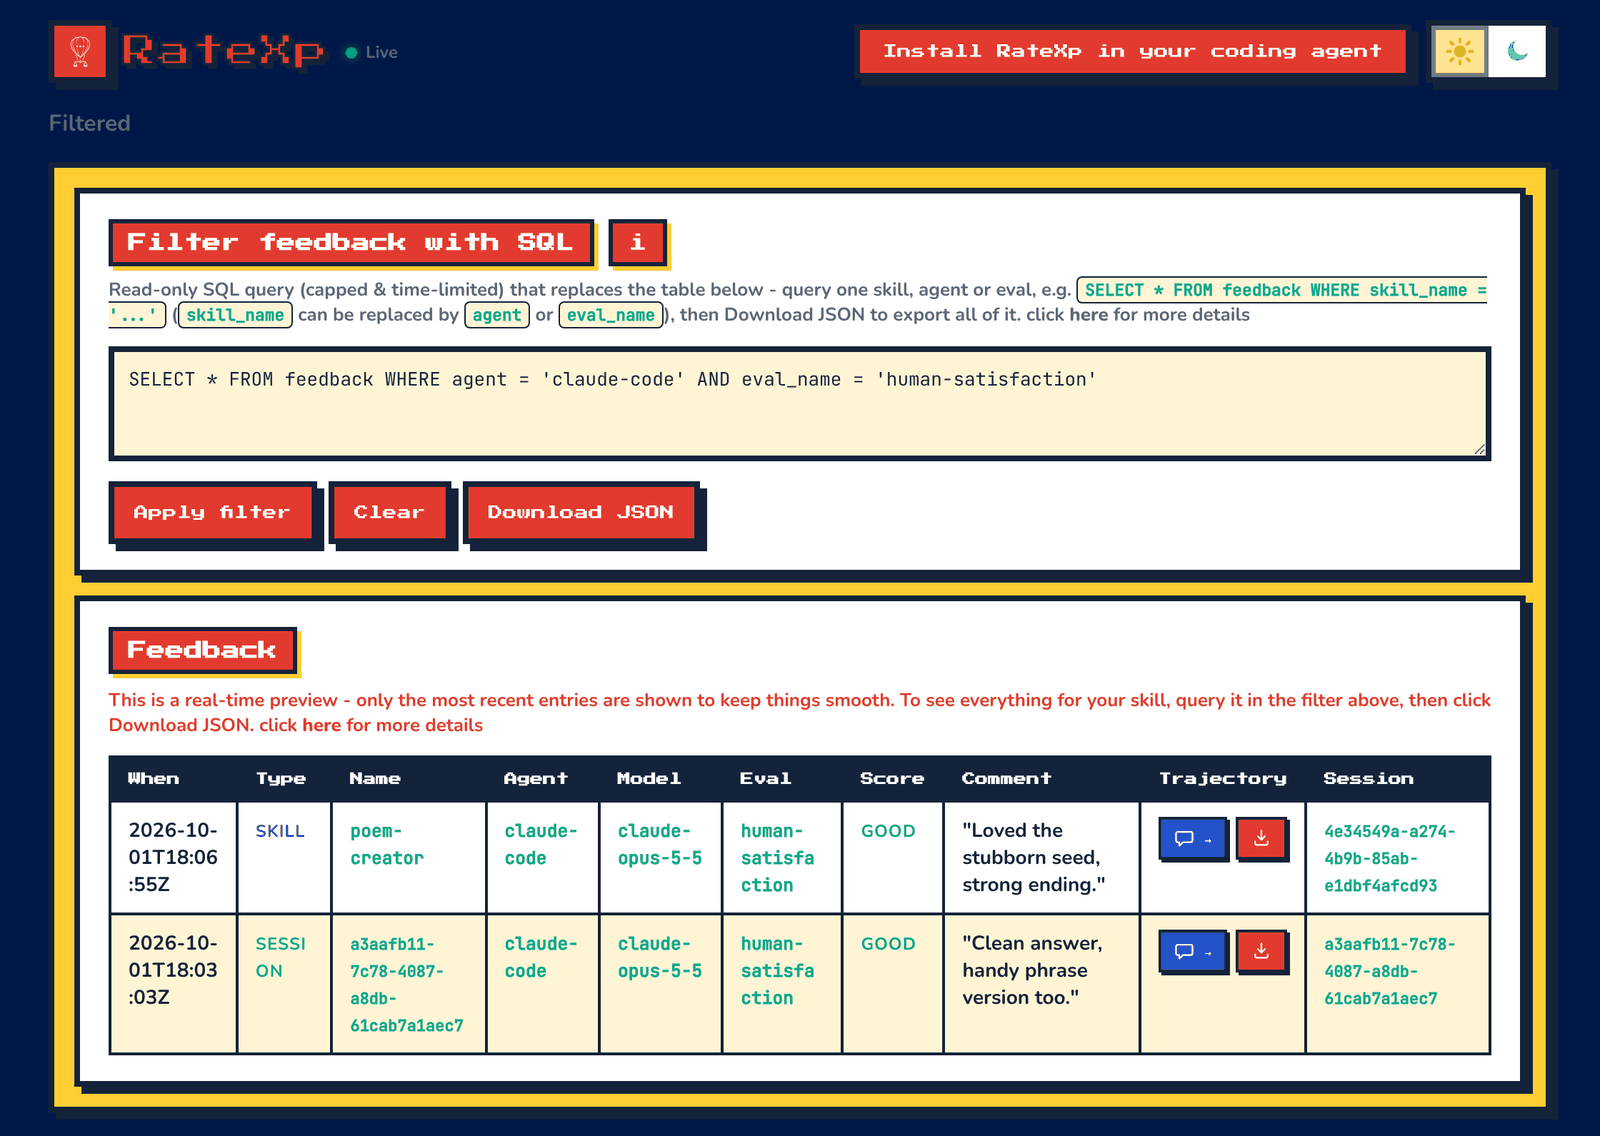
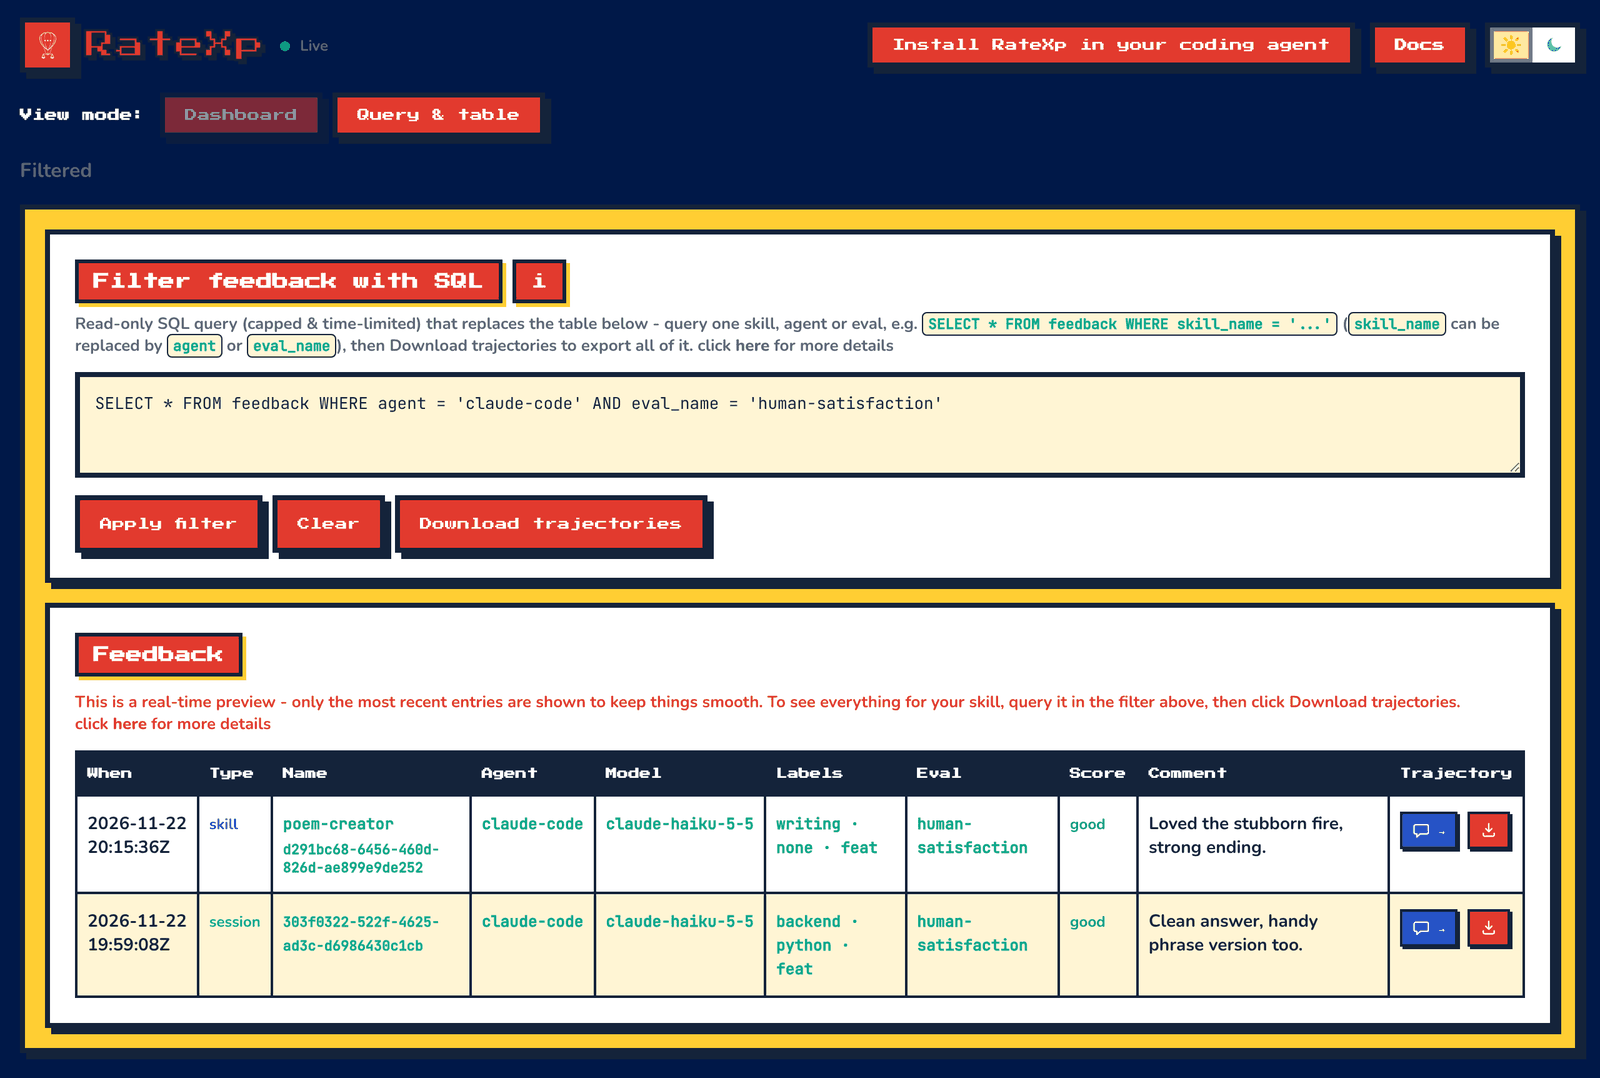
docs: show the quick-start install choices as All your projects / One repository tabs for Claude Code and the Cursor CLI (the tab hook now also takes a paragraph or list, and tabs inside a step keep its numbering), drop the plugin-folder and RATEXP_URL lines from the quick start, add The RateXp Dyna

diff --git a/docs-server/theme/ratexp.css b/docs-server/theme/ratexp.css
@@ -68,6 +68,29 @@
   background: var(--header-bg);
 }
 
+/* The repo link in the top bar is the GitHub icon alone, right before the night/day switch at
+   the end of the bar, on every screen width. Material hides the name and the stars and forks
+   counts here, and its 11.7rem box for them shrinks to the icon. */
+.md-header .md-header__source {
+  display: block;
+  order: 1;
+  width: auto;
+  max-width: none;
+}
+
+[dir="ltr"] .md-header .md-header__source {
+  margin-left: 0;
+}
+
+.md-header .md-source__repository,
+.md-header .md-source__facts {
+  display: none;
+}
+
+.md-header form[data-md-component="palette"] {
+  order: 2;
+}
+
 .md-header .md-logo img {
   filter: var(--header-logo-filter);
 }
@@ -357,6 +380,25 @@
 }
 
 .md-typeset .code-tabs > input:checked + label + pre {
+  display: block;
+}
+
+/* A tab whose body is text instead of code (the Cursor CLI's menu clicks): the same box and
+   labels, with the paragraph or list under the labels. */
+.md-typeset .code-tabs > p,
+.md-typeset .code-tabs > ol,
+.md-typeset .code-tabs > ul {
+  display: none;
+  flex: 0 0 100%;
+  margin: 0;
+  padding: 0.8em 1.2em;
+  text-align: left;
+  border-top: 1px solid var(--box-line);
+}
+
+.md-typeset .code-tabs > input:checked + label + p,
+.md-typeset .code-tabs > input:checked + label + ol,
+.md-typeset .code-tabs > input:checked + label + ul {
   display: block;
 }
 

diff --git a/docs-server/tab_code_blocks.py b/docs-server/tab_code_blocks.py
@@ -1,11 +1,11 @@
-"""MkDocs hook: show the code blocks after a `<!-- tabs -->` line as one box with tabs.
+"""MkDocs hook: show the blocks after a `<!-- tabs -->` line as one box with tabs.
 
 GitHub cannot show tabs, so a page writes each tab as a bold label line ("**Claude Code:**")
-and its own code block, and puts `<!-- tabs -->`, which GitHub hides, on the line above the
-first label. On the site the labelled blocks become one box: the first block's title bar,
-a row of tabs under it, and the code of the open tab. theme/ratexp.css draws the box; the
-tabs are radio buttons, so they work without JavaScript, and Material's copy button copies
-the open tab only.
+and its own block - a code block, or one paragraph or list - and puts `<!-- tabs -->`, which
+GitHub hides, on the line above the first label. On the site the labelled blocks become one
+box: the first block's title bar (code only), a row of tabs under it, and the block of the
+open tab. theme/ratexp.css draws the box; the tabs are radio buttons, so they work without
+JavaScript, and Material's copy button copies the open tab only.
 """
 
 from __future__ import annotations
@@ -18,27 +18,32 @@ from mkdocs.structure.files import Files
 from mkdocs.structure.pages import Page
 
 MARKER = "<!-- tabs -->"
-# One tab as rendered: the bold label line, then pymdownx.highlight's box - its title bar
-# (when the block has one) and the code.
+# One tab as rendered: the bold label line, then either pymdownx.highlight's box - its title
+# bar (when the block has one) and the code - or one paragraph or list, for a tab whose text
+# is a click in the Cursor CLI's menu rather than a command.
 TAB = re.compile(
     r"\s*<p><strong>(?P<label>[^<]+):</strong></p>\s*"
-    r'<div class="(?P<box_class>[^"]*\bhighlight\b[^"]*)">'
-    r'(?P<title><span class="filename">[^<]*</span>)?(?P<code><pre>.*?</pre>)</div>',
+    r'(?:<div class="(?P<box_class>[^"]*\bhighlight\b[^"]*)">'
+    r'(?P<title><span class="filename">[^<]*</span>)?(?P<code><pre>.*?</pre>)</div>'
+    r"|(?P<steps><(?:ol|ul)>.*?</(?:ol|ul)>|<p>.*?</p>))",
     re.S,
 )
 
 
 def make_tabbed_box(tabs: list[re.Match], group: int) -> str:
-    """One code box holding every tab; tab 1 is open. Each radio button sits right before its
-    label and its code, so the stylesheet can show the open one with `:checked +` alone."""
-    parts = [f'<div class="{tabs[0]["box_class"]} code-tabs">', tabs[0]["title"] or ""]
+    """One box holding every tab; tab 1 is open. Each radio button sits right before its
+    label and its block, so the stylesheet can show the open one with `:checked +` alone."""
+    first = tabs[0]
+    box_class = first["box_class"] if first["box_class"] else "highlight"
+    parts = [f'<div class="{box_class} code-tabs">', first["title"] or ""]
     for number, tab in enumerate(tabs, 1):
         tab_id = f"code-tabs-{group}-{number}"
         checked = " checked" if number == 1 else ""
+        body = tab["code"] if tab["code"] else tab["steps"]
         parts += [
             f'<input type="radio" name="code-tabs-{group}" id="{tab_id}"{checked}>',
             f'<label for="{tab_id}">{tab["label"]}</label>',
-            tab["code"],
+            body,
         ]
     return "".join([*parts, "</div>"])
 
@@ -54,7 +59,8 @@ def on_page_content(html: str, page: Page, config: MkDocsConfig, files: Files) -
         if len(tabs) < 2:
             raise PluginError(
                 f"{page.file.src_uri}: {MARKER} must stand right above two or more code "
-                "blocks, each after a bold label line such as **Claude Code:**"
+                "blocks, paragraphs or lists, each after a bold label line such as "
+                "**Claude Code:**"
             )
         out += [make_tabbed_box(tabs, group), text[end:]]
     return "".join(out)

diff --git a/README.md b/README.md
@@ -18,6 +18,7 @@
   <a href="#available-human-evals-the-question-of-each-eval">Available human evals</a> ·
   <a href="#how-ratexp-works-from-hook-to-destination">How RateXp works</a> ·
   <a href="#features-what-you-get">Features</a> ·
+  <a href="#the-ratexp-dynatrace-app-read-and-export-the-feedback">RateXp Dynatrace app</a> ·
   <a href="#the-ratexp-app-read-and-export-the-feedback">RateXp app</a> ·
   <a href="#contact-how-to-reach-me">Contact</a> ·
   <a href="#acknowledgements-and-citations-projects-ratexp-builds-on">Acknowledgements</a> ·
@@ -70,21 +71,21 @@ Install the RateXp plugin one time. Do the steps for your coding agent.
 
 **Claude Code:**
 
-1. **Install the plugin:** Type one of these commands in the terminal.
+1. **Install the plugin:** Type one of these commands in the terminal. For one repository,
+   type the command in the folder of the repository.
 
-   **For you, in all of your projects:**
+   <!-- tabs -->
+   **All your projects:**
 
    ```bash
    claude plugin install ratexp --marketplace https://raw.githubusercontent.com/HikmetB1/RateXp/main/.claude-plugin/marketplace.json
    ```
 
-   **For you, only in one repository:** Type the command in the folder of the repository.
+   **One repository:**
 
    ```bash
    claude plugin install ratexp --marketplace https://raw.githubusercontent.com/HikmetB1/RateXp/main/.claude-plugin/marketplace.json --scope local
    ```
-
-   Claude Code downloads only the plugin folder, `plugins/claude-code/`, not the whole repo.
 
 2. **Start Claude Code:** `/ratexp:rate` works. If Claude Code is open, type
    `/reload-plugins` in Claude Code.
@@ -98,9 +99,18 @@ Install the RateXp plugin one time. Do the steps for your coding agent.
    ```
 
 2. **Install the plugin:** Start the Cursor CLI with `agent` and type `/plugin`. Press → to
-   open Marketplace, type `ratexp` and press Enter. Then pick "Install for you" (all of your
-   projects) or "Install for all collaborators on this repository" (shared with everyone on
-   the repository).
+   open Marketplace, type `ratexp` and press Enter. Then pick the tab that fits:
+
+   <!-- tabs -->
+   **All your projects:**
+
+   Pick **Install for you**.
+
+   **One repository:**
+
+   Pick **Install for all collaborators on this repository** (shared with everyone on the
+   repository).
+
 3. **Restart the Cursor CLI:** Exit the Cursor CLI and start the Cursor CLI again. Then
    `/ratexp:rate` works. The survey every 5 turns starts from your next Cursor CLI session.
 
@@ -110,15 +120,6 @@ Install the RateXp plugin one time. Do the steps for your coding agent.
   [How to give a rating](#how-to-give-a-rating-the-command-and-the-survey).
 - **Cursor hooks file:** The plugin changes `~/.cursor/hooks.json` and keeps a copy of your
   old file as `~/.cursor/hooks.json.ratexp-backup`.
-- **Where the ratings go:** The plugin sends the ratings to the hosted RateXp core. To send
-  the ratings to your own core, add this line to your shell profile, such as `~/.bashrc` or
-  `~/.zshrc`, with the URL of your core:
-
-  ```bash
-  export RATEXP_URL=https://core.example.com
-  ```
-
-  See [Custom deploy](./docs/custom-deploy.md).
 - **Updates:** When a newer version of the plugin is available, RateXp shows a message that
   tells how to update.
 
@@ -316,18 +317,35 @@ core writes each submission to each write adapter that you switch on in
 
 <!-- shared:end destinations -->
 
-## Tested: the coding agents and the models
+## Tested agents and models: what the tests of RateXp ran with
 
 The tests of RateXp ran with these coding agents and models:
 
 | Type | Names and versions |
 |------|--------------------|
 | Coding agents | Claude Code, Cursor CLI |
-| Models | Claude Opus 5.5, 5, 4.8, 4.7, 4.6, 4.5; Claude Sonnet 5.5, 5, 4.6, 4.5; Fable |
+| Models | Claude Opus 5.5, 5, 4.8, 4.7, 4.6, 4.5; Claude Sonnet 5.5, 5, 4.6, 4.5; Claude Haiku 5.5, 4.5; Fable |
+
+## The RateXp Dynatrace app: read and export the feedback
+<p align="center">
+  <img src="./assets/dynatrace-app.png" alt="The RateXp Dynatrace app" width="720">
+</p>
+
+The [RateXp Dynatrace app](./app/dynatrace/README.md) is one of the destinations: the RateXp
+Dynatrace app shows the feedback that core writes with the `app_be_dynatrace` write adapter,
+when the feedback arrives. The RateXp Dynatrace app has this view:
+
+- **Dashboard:** panels, filters, a time range and **Download trajectories**.
+
+See [Destinations](#destinations-where-core-writes-the-feedback) and
+[View options](./docs/read-the-feedback.md#view-options-where-to-see-the-human-evals).
+
+For each panel, filter and download, see
+[docs/read-the-feedback.md](./docs/read-the-feedback.md).
 
 ## The RateXp app: read and export the feedback
 <p align="center">
-  <img src="./assets/dashboard.png" alt="The RateXp dashboard" width="720">
+  <img src="./assets/dashboard.png" alt="The RateXp app in the Query & table view" width="720">
 </p>
 
 The [RateXp app](https://ratexp-app.azurewebsites.net/) is one of the destinations: the RateXp

diff --git a/docs-server/README.md b/docs-server/README.md
@@ -51,6 +51,9 @@ core serves its own copy of the docs site at `/guide/`:
 - `site_name`: The name in the header and at the end of each browser tab title.
 - `site_url`: The public `/guide/` URL of core. The 404 page loads its styles from the path of
   `site_url`. Thus, the path must end in `/guide/`.
+- `repo_url` / `repo_name`: The RateXp repo on GitHub. The top bar shows the GitHub icon as a
+  link to the repo, on the left of the light/dark toggle. `ratexp.css` hides the name and the
+  stars and forks counts that Material shows next to the icon.
 - `docs_dir`: `theme/`, which holds only the stylesheet of the site. The pages come from
   `hooks` (the top of `add_repo_pages.py` tells why).
 - `dev_addr`: The address that `mkdocs serve` listens on.
@@ -59,11 +62,15 @@ core serves its own copy of the docs site at `/guide/`:
     `assets/` folder of the repo.
   - **Exception:** `add_repo_pages.py` adds the logo and the favicon of the RateXp app from
     `app/ratexp/FE/public/`.
-  - **Tabs:** `tab_code_blocks.py` shows two or more code blocks as one box with tabs. Write
-    each tab as a bold label line, for example `**Claude Code:**`, and then the code block of
-    the tab. Put `<!-- tabs -->` on the line above the first label line. GitHub does not show
-    `<!-- tabs -->`. Thus, GitHub shows each label line and the code block below the label
-    line.
+  - **Tabs:** `tab_code_blocks.py` shows two or more blocks as one box with tabs. Write each
+    tab as a bold label line, for example `**Claude Code:**`, and then the block of the tab.
+    Put `<!-- tabs -->` on the line above the first label line. GitHub does not show
+    `<!-- tabs -->`. Thus, GitHub shows each label line and the block below the label line.
+  - **Tab blocks:** A tab holds one code block, or one paragraph or list for a step that is a
+    click and not a command. All tabs of a box can mix the two.
+  - **Tabs in a step:** Indent the tabs to the text of a numbered step. The numbered list then
+    continues after the box. Tabs that are not indented end the list, and the next step starts
+    again at 1.
   - **Shared sections:** `include_shared_sections.py` shows one section on more than one page,
     and the text of the section stays in one file only. Mark the section in its own page:
     `<!-- shared:start destinations -->` above the heading, and
@@ -89,7 +96,8 @@ core serves its own copy of the docs site at `/guide/`:
   - **`features`:** Switches on the copy button on code, the group headings in the sidebar, the
     open subgroups in the sidebar (now: app), the previous and next links, and the back-to-top
     button.
-  - **`icon`:** Gives Tip a lightbulb and Note an information icon.
+  - **`icon`:** Gives Tip a lightbulb and Note an information icon, and gives the repo link
+    the GitHub icon.
 - `extra`:
   - **`generator`:** `false` removes the "Made with Material for MkDocs" footer.
     [THIRD_PARTY_NOTICES.md](../THIRD_PARTY_NOTICES.md) holds the credit and the license of
@@ -117,8 +125,8 @@ uv sync && uv run mkdocs build --strict
 - **Missing file:** A nav entry without a file always makes the build fail.
 - **Strict mode:** Strict mode also makes the build fail on each warning, for example a link to
   a missing page or to a missing `#anchor`.
-- **Tabs:** A `<!-- tabs -->` line without two or more labelled code blocks below the line
-  makes the build fail.
+- **Tabs:** A `<!-- tabs -->` line without two or more labelled blocks below the line makes
+  the build fail.
 - **Shared sections:** A `<!-- shared -->` line makes the build fail when the line has no
   `<!-- /shared -->` line below it, when the file is missing, or when the file has no
   `shared:start` and `shared:end` lines with the name of the section.

diff --git a/CONTRIBUTING.md b/CONTRIBUTING.md
@@ -8,7 +8,7 @@
 - [Dev environment](#dev-environment-test-a-change-before-prod)
 - [Repository layout](#repository-layout-what-each-folder-holds)
 - [Tests](#tests-per-component-and-whole-app)
-- [Documentation rules](#documentation-rules-how-docs-should-read)
+- [Documentation rules](#documentation-rules-what-to-write-in-a-doc)
 - [Code rules](#code-rules-how-code-should-read)
 - [Open work](#open-work-what-is-not-built-yet)
 - [Contributor License Agreement](#contributor-license-agreement-what-you-agree-to)
@@ -212,7 +212,7 @@ deployed systems: one against a deployed stack, and one with the real agents on 
     RATEXP_PROD_AGENTS=1 RATEXP_AGENTS_ENVIRONMENT=dev uv run --no-project --with-requirements tests/requirements.txt pytest tests/test_agents_production.py -v
     ```
 
-## Documentation rules: how docs should read
+## Documentation rules: what to write in a doc
 
 - **Where:** The rules apply to each doc in the repo, most of all to the README of a folder.
 - **Exception:** The root [README.md](./README.md) and CONTRIBUTING.md introduce the whole
